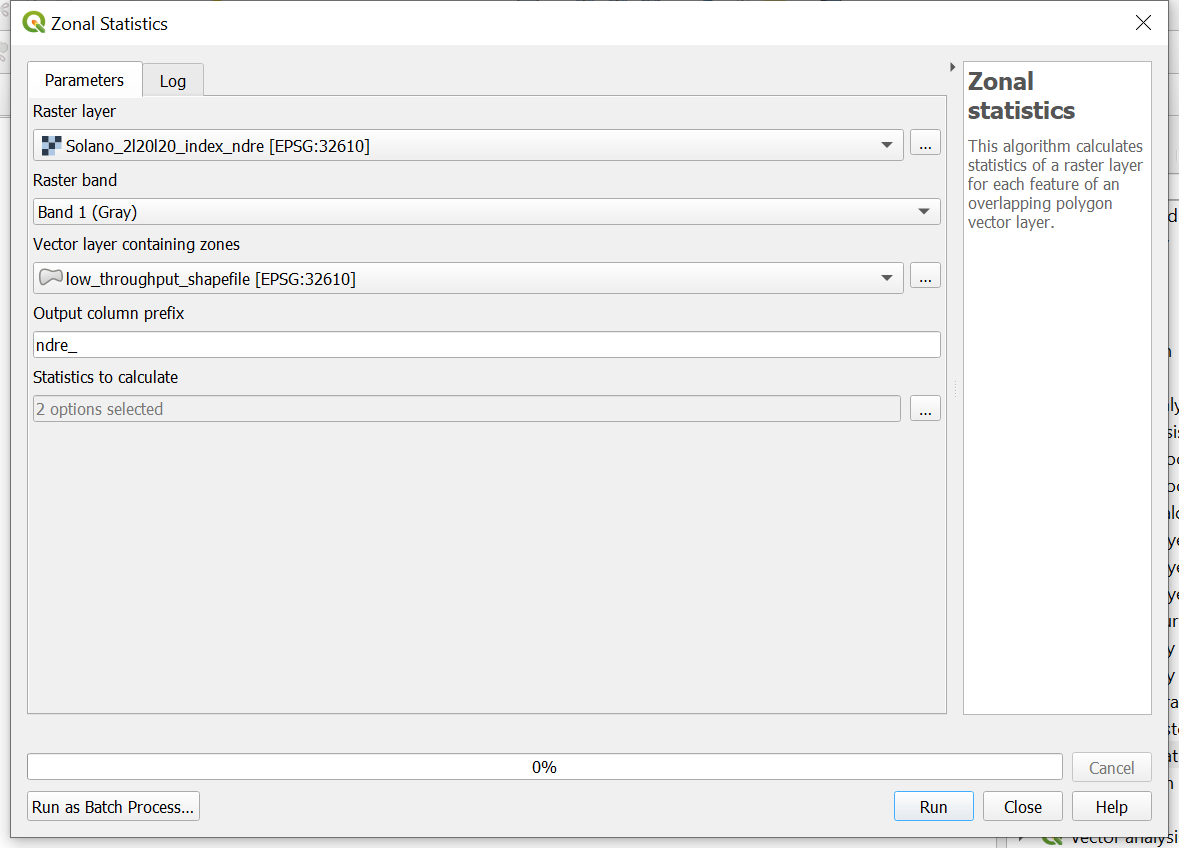
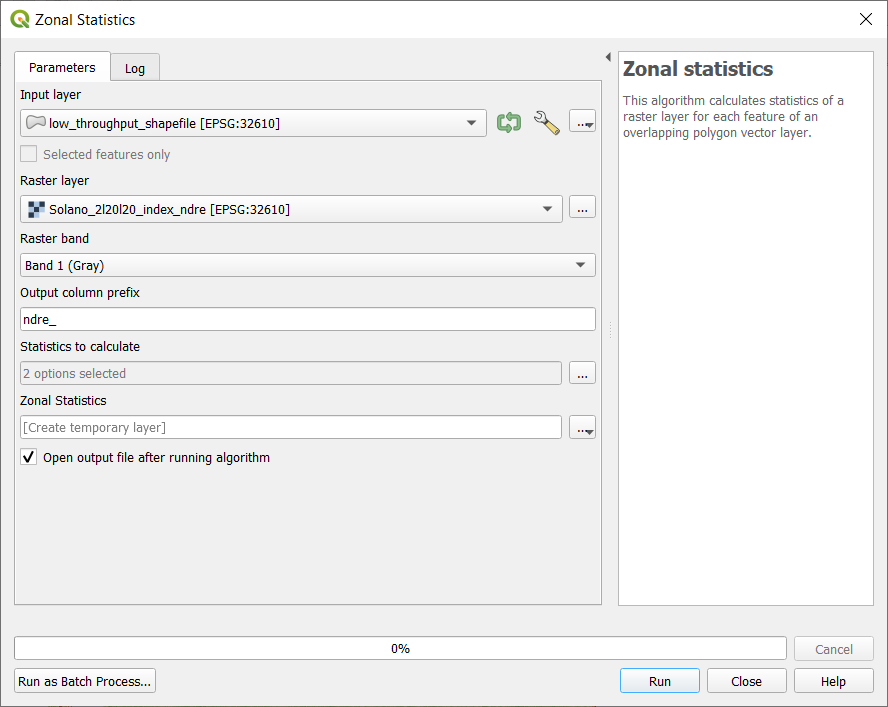
low throughput update to zonal statistics changes

Changed region(s): [[0.0, 0.0, 1.0, 1.0], [0.6385, 0.3423, 0.6993, 0.4979], [0.6385, 0.5912, 0.6993, 0.6223]]

diff --git a/03-multispectral-data-extraction.md b/03-multispectral-data-extraction.md
@@ -97,16 +97,16 @@ Zonal statics is like using the shapefile just created as a cookie cutter for th
 4. Choose the shapefile layer that was just created under `Vector layer containing zones`
 5. Set the prefix to the band or index you are extracting (in order to keep track of your data) under `Output column prefix` (in this case *ndre_*)
 6. Click `...` and check whichever boxes of statistics you want to calculate. 
-7. Click `Run` to run the algorithm.
+7. Click `Run` to run the algorithm. This will create a new layer with the selected statistics fields.
 ![](img/zonal-statistics-tool.png)
 8. Close the `Zonal Statistics` tool. 
-9. Look at the values that were just extracted by clicking on the shapefile layer and navigating to `Open Attribute Table`
+9. Look at the values that were just extracted by clicking on the new 'Zonal Statistics' layer and navigating to `Open Attribute Table`
 ![](img/zonal-statistic-data.png)
 10. The attribute table should contain values for each of the polygons created and each statistic that was checked in the `Zonal Statistics` tool. 
 
 ## 6. Export as csv
 
-1. Right click the shapefile use to extract the data in the `Zonal Statistics` tool
+1. Right click the 'Zonal Statistics' layer
 2. Navigate to `Export` >> `Save Feature As…`
 ![](img/to-export.png)
 3. Change the Format to `Comma Separate Value [CSV]`
